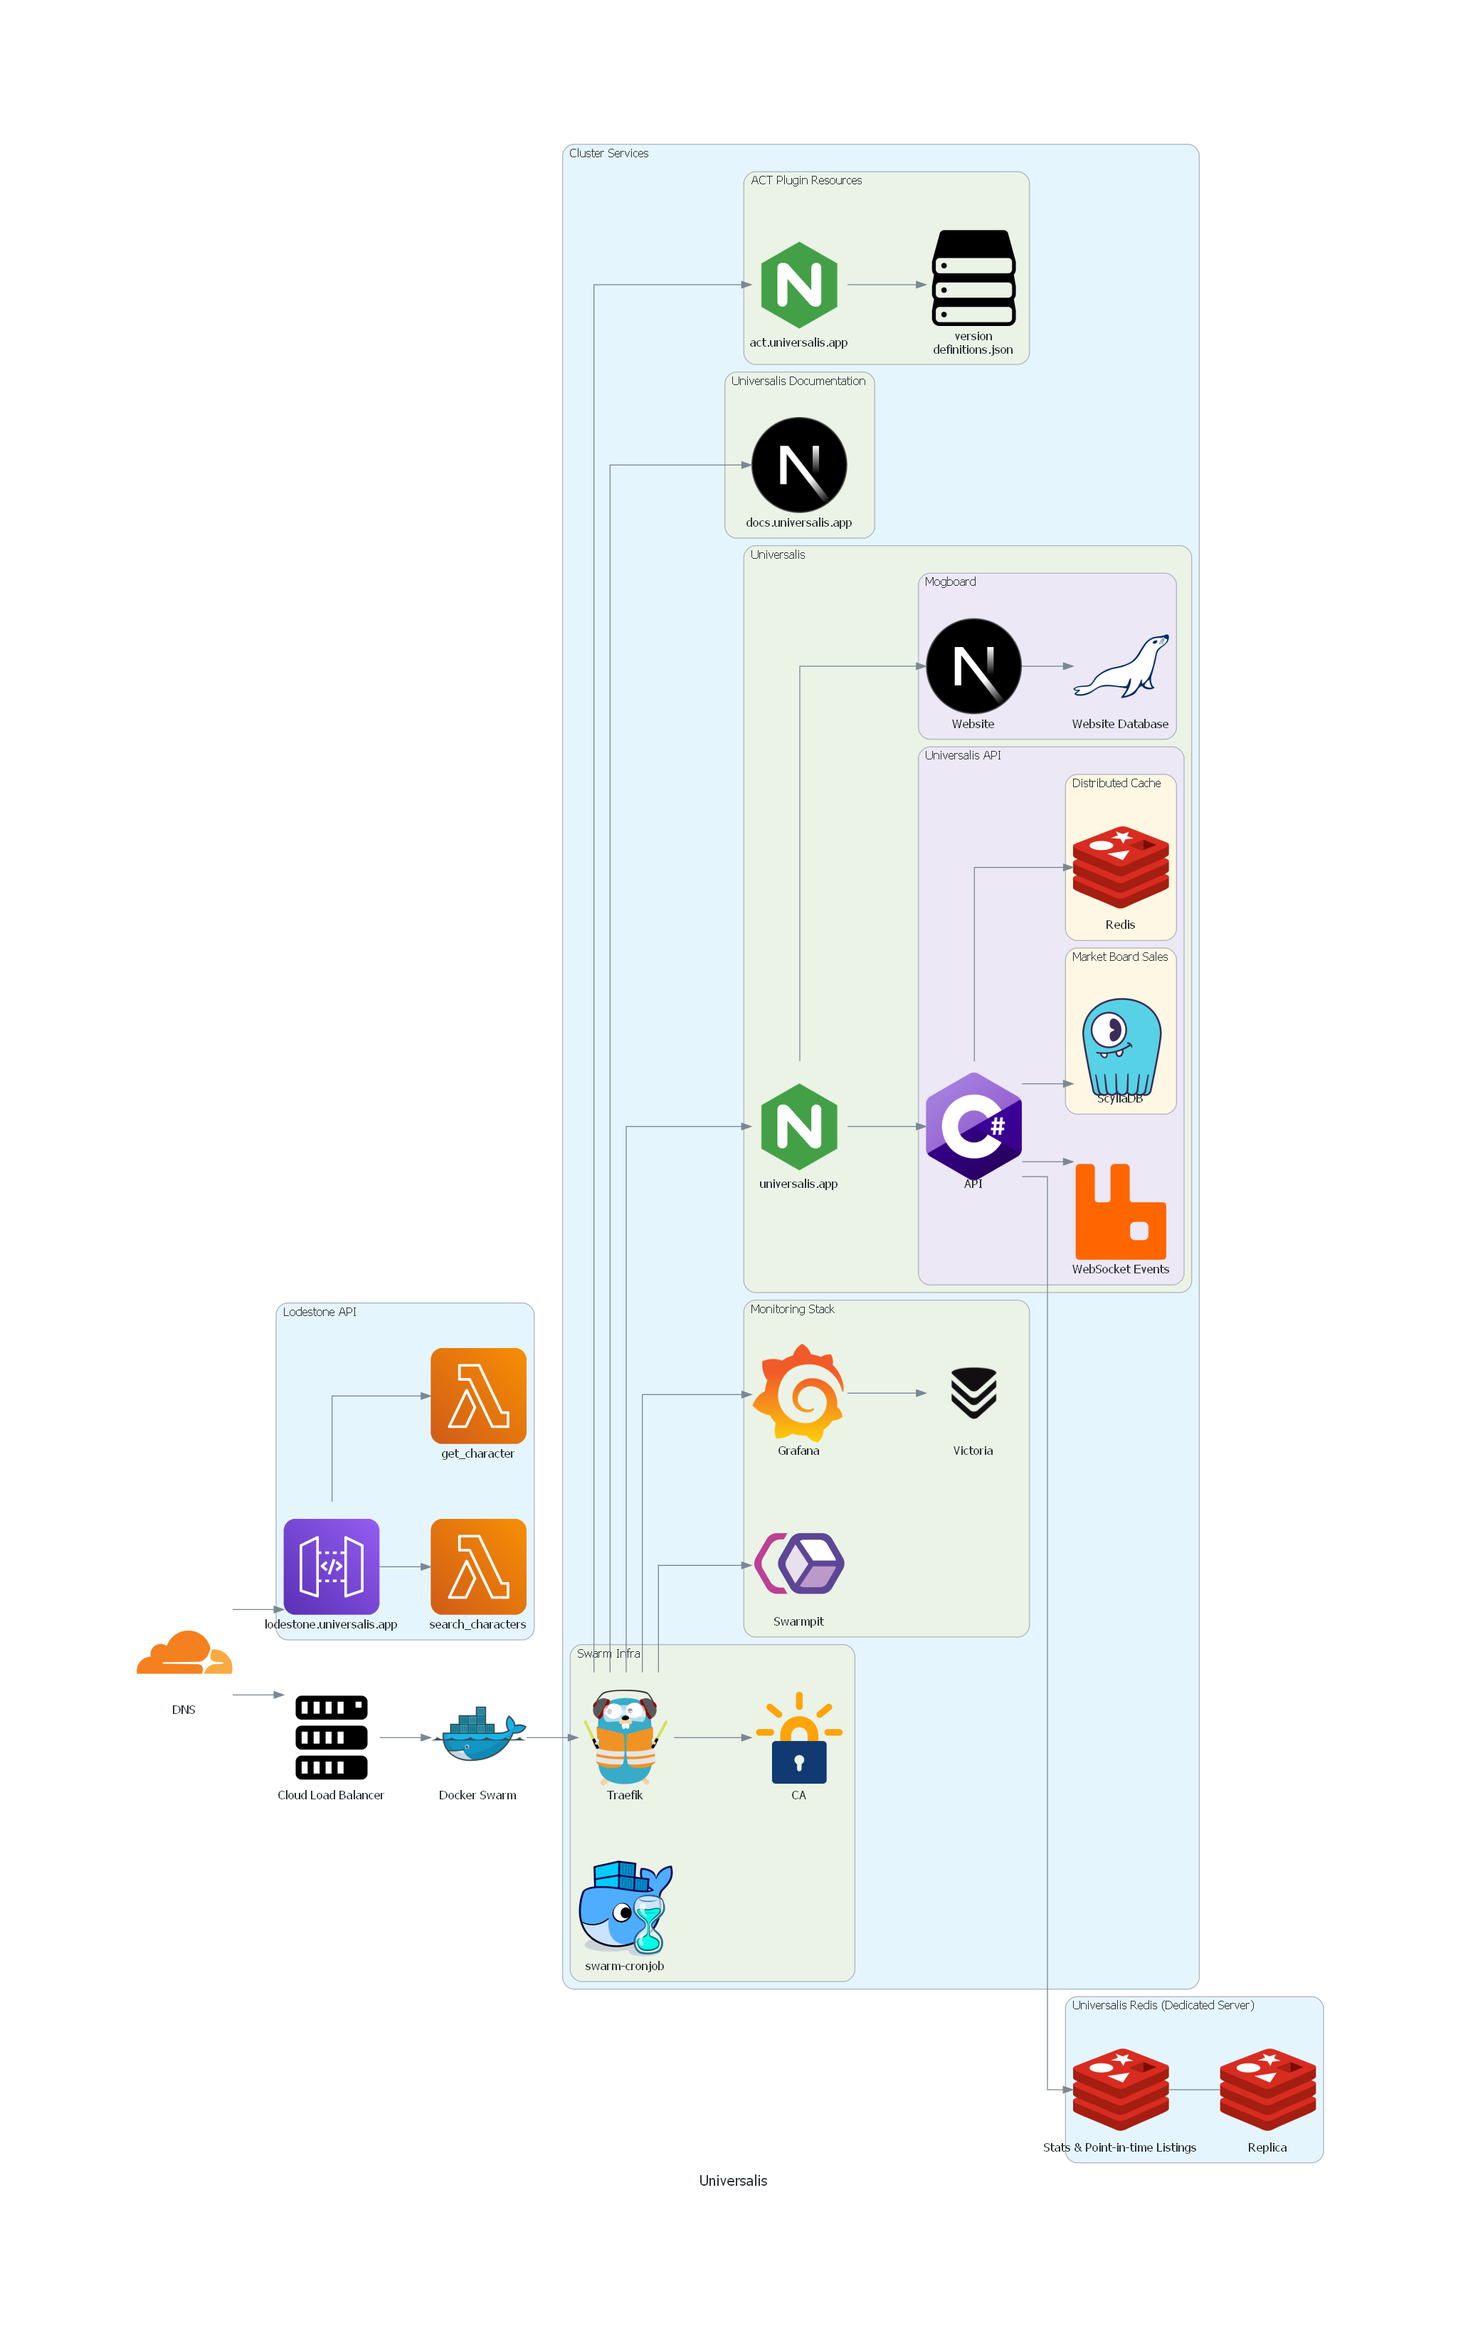
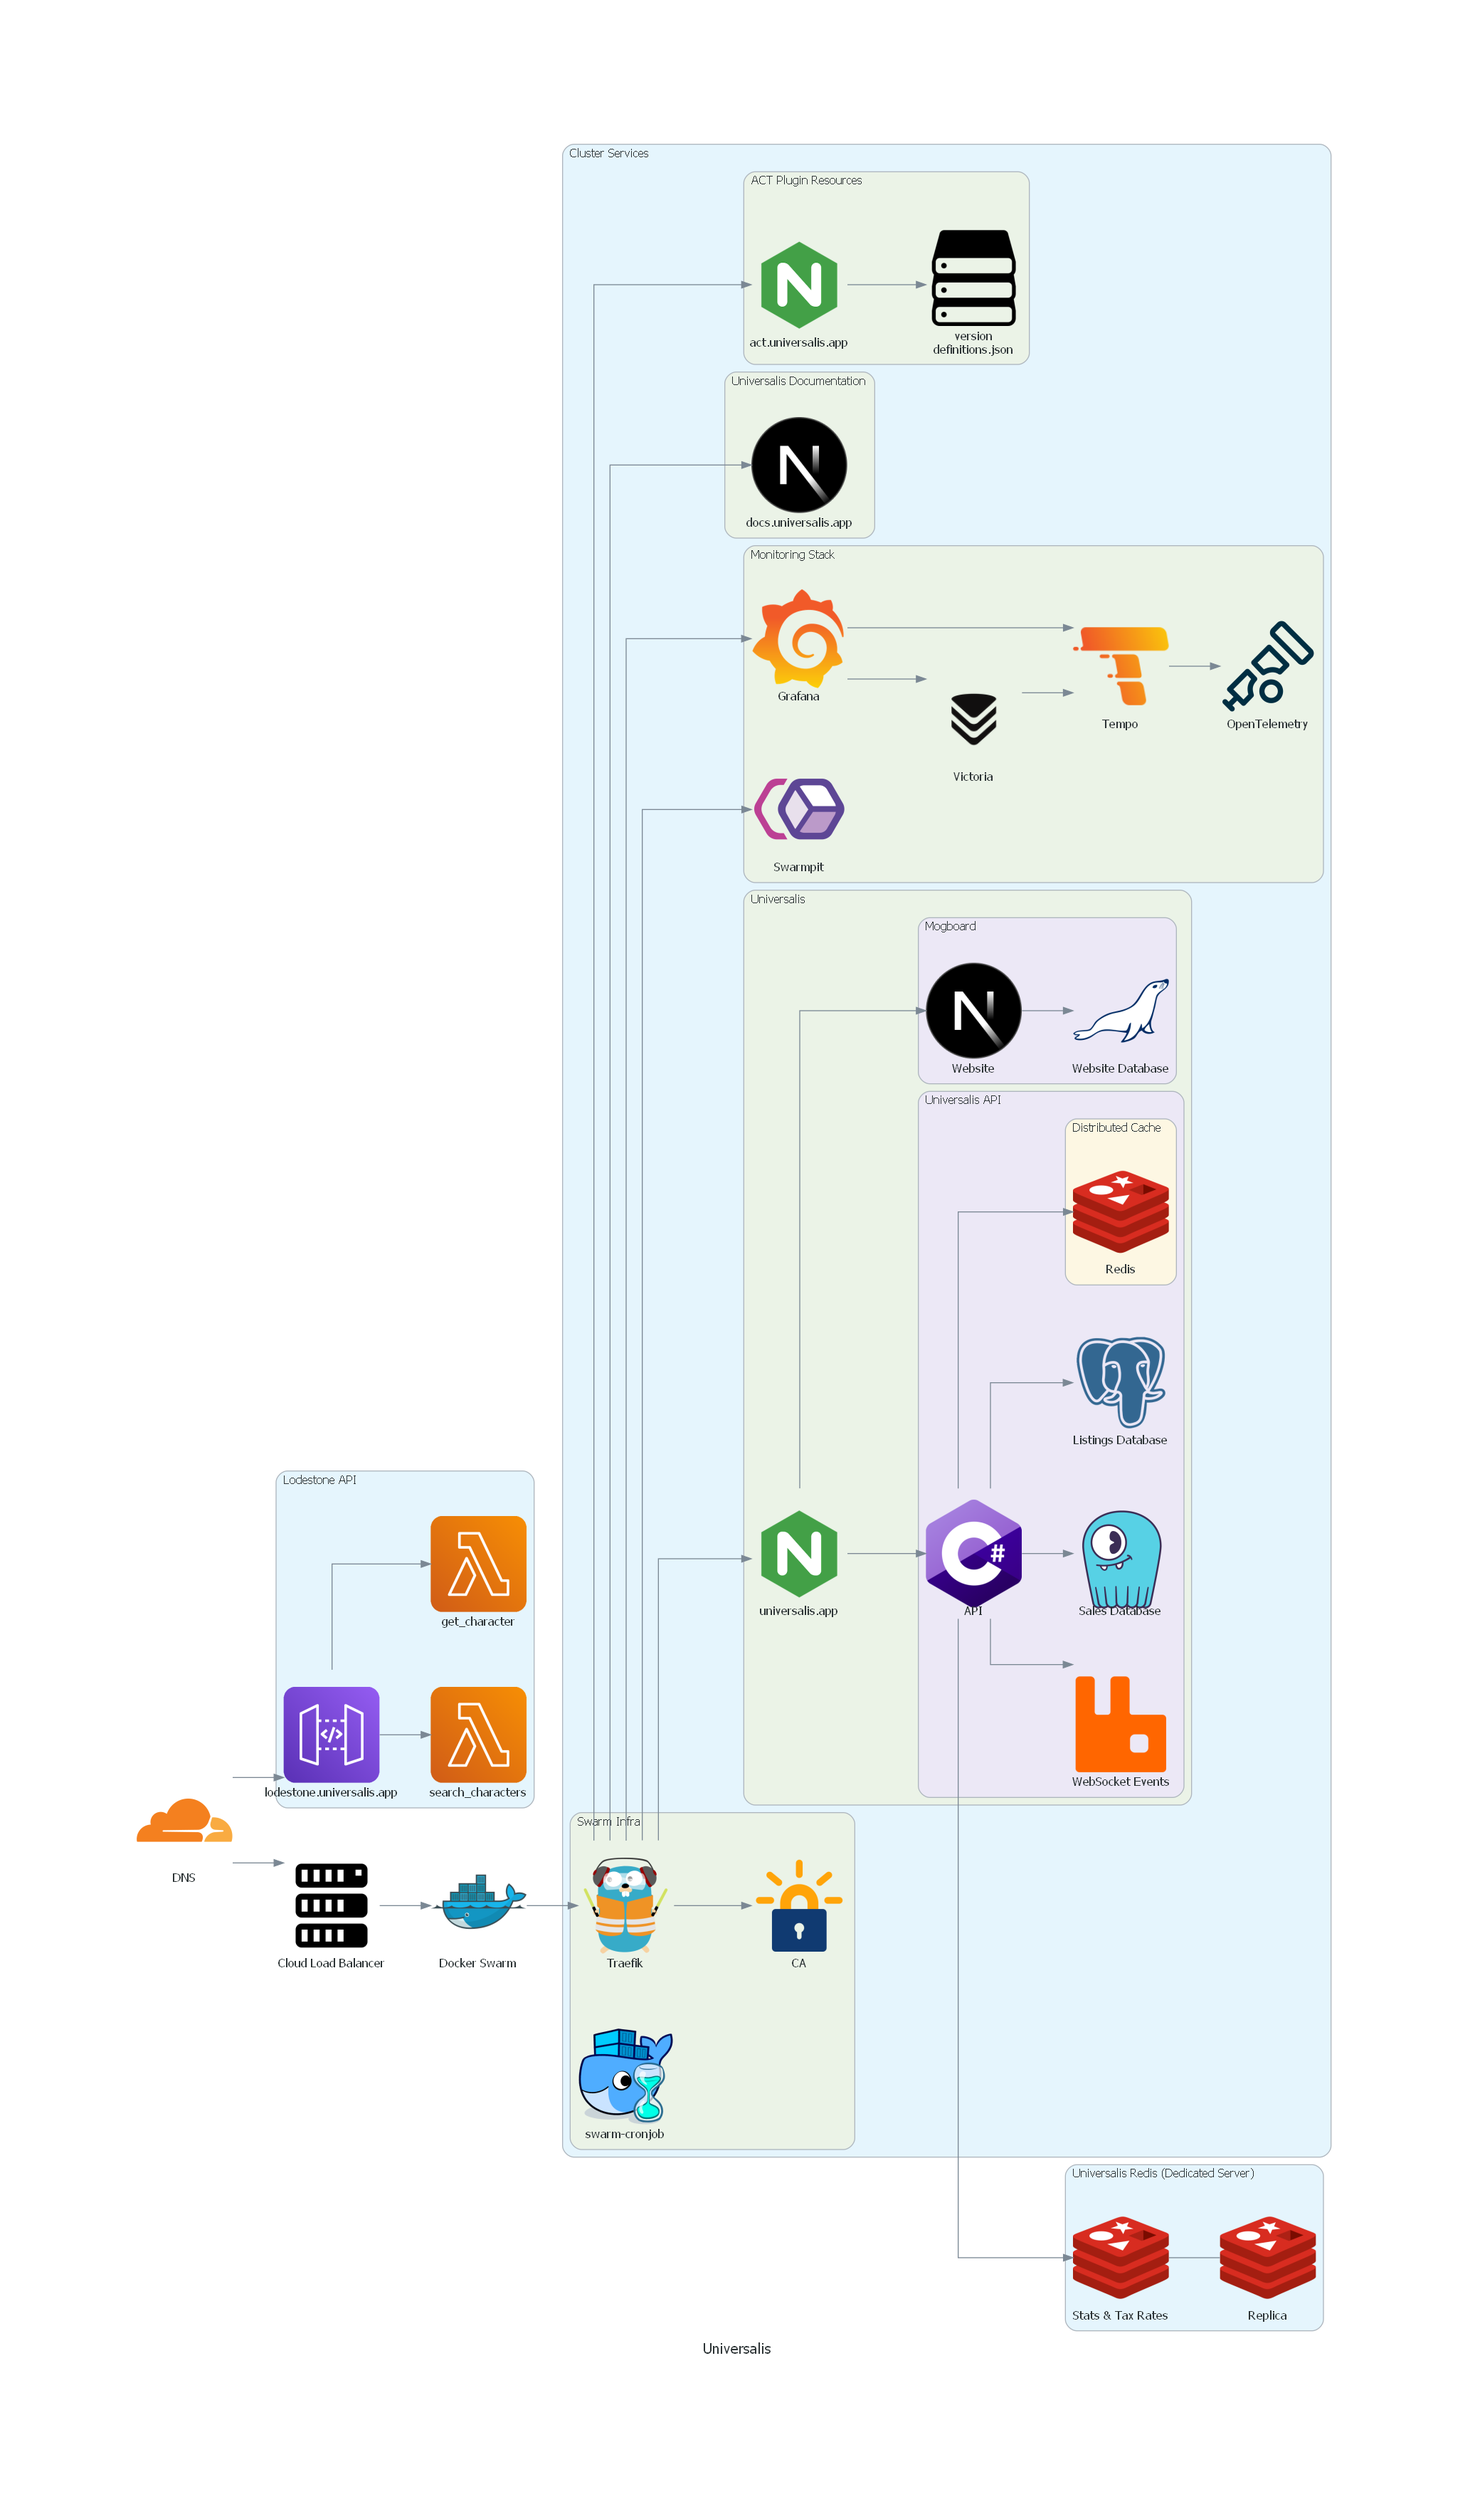
Update infra diagram

diff --git a/viz/diagram.py b/viz/diagram.py
@@ -5,13 +5,13 @@ from diagrams.generic.storage import Storage
 from diagrams.onprem.certificates import LetsEncrypt
 from diagrams.onprem.compute import Server
 from diagrams.onprem.container import Docker
-from diagrams.onprem.database import Mariadb
+from diagrams.onprem.database import Mariadb, Postgresql
 from diagrams.onprem.inmemory import Redis
 from diagrams.onprem.monitoring import Grafana
 from diagrams.onprem.network import Nginx, Traefik
 from diagrams.onprem.queue import RabbitMQ
 from diagrams.programming.language import Csharp
-from third_party import Swarmpit, SwarmCronjob, Scylla, Cloudflare, Nextjs, Victoria
+from third_party import Swarmpit, SwarmCronjob, Scylla, Cloudflare, Nextjs, Victoria, Tempo, OpenTelemetry
 
 with Diagram("Universalis", show=False):
     with Cluster("Lodestone API"):
@@ -22,7 +22,7 @@ with Diagram("Universalis", show=False):
         lodestone_apig >> get_character  # type: ignore
 
     with Cluster("Universalis Redis (Dedicated Server)"):
-        universalis_redis = Redis("Stats & Point-in-time Listings")
+        universalis_redis = Redis("Stats & Tax Rates")
         universalis_redis - Redis("Replica")  # type: ignore
 
     cloudflare = Cloudflare("DNS")
@@ -41,11 +41,16 @@ with Diagram("Universalis", show=False):
         
         with Cluster("Monitoring Stack"):
             grafana = Grafana("Grafana")
+            tempo = Tempo("Tempo")
+            otel = OpenTelemetry("OpenTelemetry")
             victoria = Victoria("Victoria")
             
             swarmpit = Swarmpit("Swarmpit")
 
             ingress >> grafana >> victoria  # type: ignore
+            grafana >> tempo  # type: ignore
+            victoria >> tempo  # type: ignore
+            tempo >> otel  # type: ignore
             ingress >> swarmpit  # type: ignore
 
         with Cluster("Universalis"):
@@ -55,16 +60,16 @@ with Diagram("Universalis", show=False):
                 universalis_api = Csharp("API")
 
                 universalis_mq = RabbitMQ("WebSocket Events")
-
-                with Cluster("Market Board Sales"):
-                    universalis_db = Scylla("ScyllaDB")
+                universalis_sales_db = Scylla("Sales Database")
+                universalis_listings_db = Postgresql("Listings Database")
 
                 with Cluster("Distributed Cache"):
                     universalis_cache = Redis("Redis")
 
                 universalis_api >> universalis_mq  # type: ignore
                 universalis_api >> universalis_redis  # type: ignore
-                universalis_api >> universalis_db  # type: ignore
+                universalis_api >> universalis_sales_db  # type: ignore
+                universalis_api >> universalis_listings_db  # type: ignore
                 universalis_api >> universalis_cache  # type: ignore
                 universalis_router >> universalis_api  # type: ignore
 

diff --git a/viz/third_party.py b/viz/third_party.py
@@ -38,3 +38,13 @@ class Victoria(Custom):
         victoria_icon = "resources/victoria.png"
         urlretrieve(victoria_url, victoria_icon)
         super().__init__(label, victoria_icon)
+
+class Tempo(Custom):
+    def __init__(self, label):
+        tempo_icon = "resources/grafana-tempo.png"
+        super().__init__(label, tempo_icon)
+
+class OpenTelemetry(Custom):
+    def __init__(self, label):
+        tempo_icon = "resources/open-telemetry.png"
+        super().__init__(label, tempo_icon)
